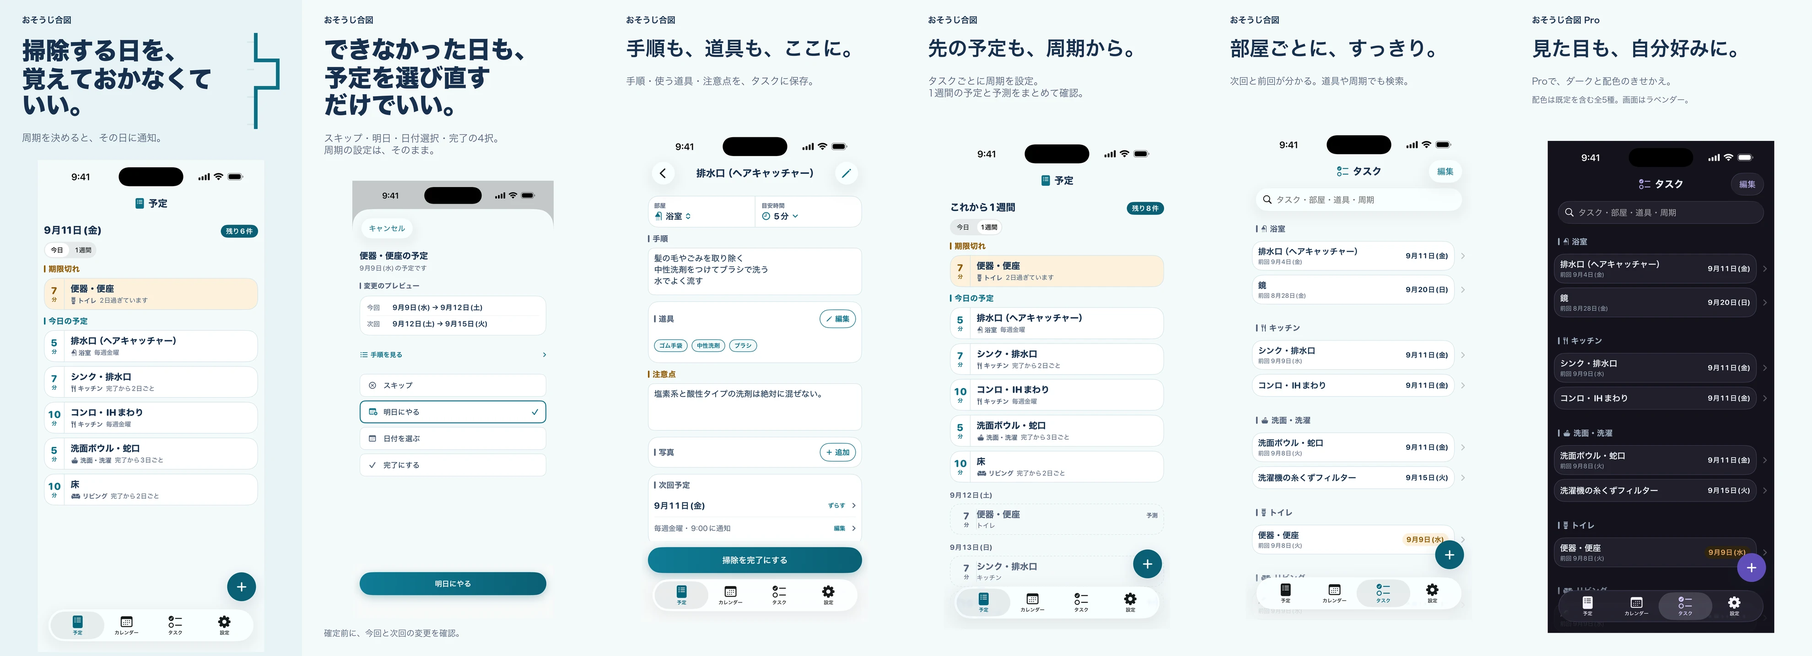
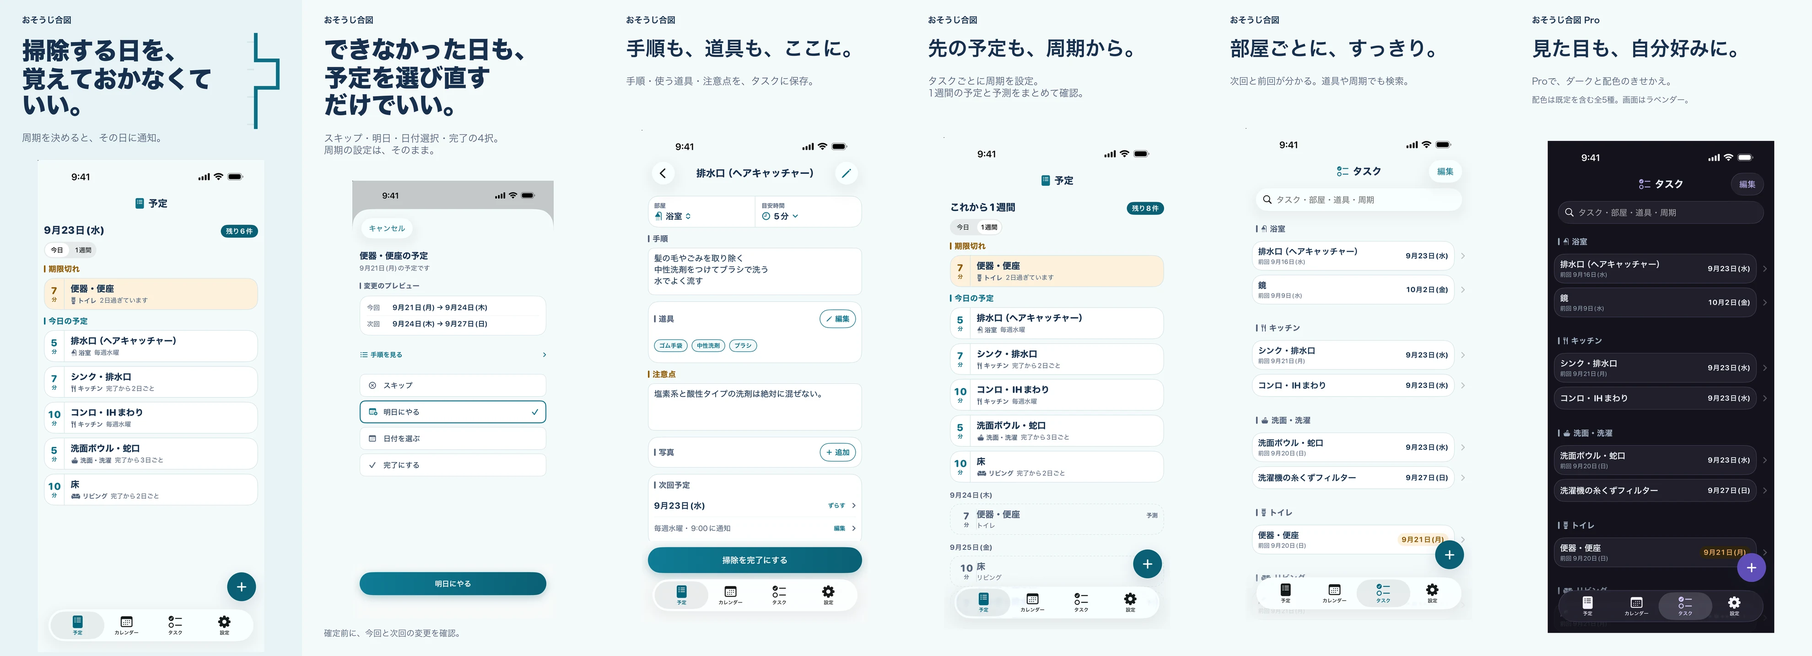
fix(osoujiaizu): LP・サポート・プライバシーを現行アプリに合わせ、画像を差し替える
- 共有の導線を実装どおりに（設定「共有」→「共有を開始」／「招待リンクで参加」。
  「iCloudで同期」トグル・「家族と共有」「招待から参加」は廃止済み）
- 担当者（1.0.0 で追加）: サポートに FAQ、プライバシーにメンバーの表示名と担当者の識別子、
  担当による通知の絞り込み、同期のためのサイレント通知、JSON に識別子が載ることを追記
- 予定の変更で動くのは「今回と次回」（LP の「今回の1回だけ」を訂正）
- 無料の配色は「みず」、復元ボタンは「過去の購入を復元」
- 計測イベントの例に配色の変更・共有の開始/参加/終了・起動などの基本イベントを追記
- 同期のラグ（数秒〜数十秒）の FAQ を追加
- LP の画像帯を 2026-09-23 素材の訴求画像に差し替え（寸法・並びは従来どおり）

Claude-Session: https://claude.ai/code/session_01LxpXgWtj5zPnfFBaJRsbJC

diff --git a/osoujiaizu/privacy.html b/osoujiaizu/privacy.html
@@ -53,27 +53,27 @@
 <main class="wrap">
   <p class="eyebrow">TempuraApps</p>
   <h1>おそうじ合図 プライバシーポリシー</h1>
-  <p class="updated">最終更新日: 2026年9月2日</p>
+  <p class="updated">最終更新日: 2026年9月29日</p>
   <p class="lang"><a href="index.html">アプリ紹介</a> ・ <a href="support.html">サポート</a> ・ <a href="en/privacy.html">English</a></p>
   <p class="lead">おそうじ合図（以下「本アプリ」）は、TempuraApps（以下「当方」）が提供します。本アプリにおける利用者情報の取り扱いについて、以下のとおり定めます。</p>
 
   <h2>1. 収集する情報</h2>
-  <p>本アプリは、氏名・メールアドレス・電話番号などの個人情報を収集しません。利用者が記録・入力したデータ（タスク・部屋・手順・使う道具・注意点・周期・写真・掃除の記録等）は、すべて利用者の端末内にのみ保存され、当方や第三者のサーバーに送信・保管されることはありません。なお、利用者ご自身が iCloud での同期・家族との共有（第8項・初期設定はオフ）をオンにした場合は、これらのデータが利用者自身の iCloud にも保存されます。ただし、アプリの改善のための利用状況の計測（第6項）と、Pro 機能の購入処理（第7項）に限り、限定的な情報を外部サービスに送信します。これらに氏名や、タスク名・部屋名・道具名・手順・注意点・写真など利用者が記録・入力した内容そのものは一切含まれません。</p>
+  <p>本アプリは、氏名・メールアドレス・電話番号などの個人情報を収集しません。利用者が記録・入力したデータ（タスク・部屋・手順・使う道具・注意点・周期・写真・掃除の記録等）は、すべて利用者の端末内にのみ保存され、当方や第三者のサーバーに送信・保管されることはありません。なお、利用者ご自身が iCloud での共有（第8項・初期設定はオフ）を始めた場合は、これらのデータが iCloud にも保存されます。ただし、アプリの改善のための利用状況の計測（第6項）と、Pro 機能の購入処理（第7項）に限り、限定的な情報を外部サービスに送信します。これらに氏名や、タスク名・部屋名・道具名・手順・注意点・写真など利用者が記録・入力した内容そのものは一切含まれません。</p>
 
   <h2>2. 写真の取り扱い</h2>
-  <p>本アプリで撮影・選択した写真は、利用者の端末内に保存されます。当方のサーバーへ送信されることはありません。iCloud での同期・家族との共有（第8項）をオンにしている場合は、写真も同期の対象になり、利用者自身の iCloud に保存されます。第9項の書き出し機能で作成するバックアップファイル（JSON形式）には、写真は含まれません。写真ライブラリへのアクセス許可は、利用者がタスクに写真を付けようとしたときにのみ求めます。許可しない場合でも、写真を使わない機能はすべてご利用いただけます。</p>
+  <p>本アプリで撮影・選択した写真は、利用者の端末内に保存されます。当方のサーバーへ送信されることはありません。iCloud での共有（第8項）を使っている場合は、写真も共有の対象になり、iCloud に保存されます。第9項の書き出し機能で作成するバックアップファイル（JSON形式）には、写真は含まれません。写真ライブラリへのアクセス許可は、利用者がタスクに写真を付けようとしたときにのみ求めます。許可しない場合でも、写真を使わない機能はすべてご利用いただけます。</p>
 
   <h2>3. 位置情報について</h2>
   <p>本アプリは位置情報を使用しません。位置情報へのアクセスを求めることも、取得することもありません。</p>
 
   <h2>4. アカウント・通信</h2>
-  <p>本アプリの利用にアカウント登録は不要です。利用者が記録・入力したデータそのものは、iCloud での同期・家族との共有（第8項）をオンにしない限り端末内で完結し、外部に送信されません。一方で本アプリは、下記の利用状況の計測（第6項）と購入処理（第7項）のために、限られた外部サービスと通信します。</p>
+  <p>本アプリの利用にアカウント登録は不要です。利用者が記録・入力したデータそのものは、iCloud での共有（第8項）を始めない限り端末内で完結し、外部に送信されません。一方で本アプリは、下記の利用状況の計測（第6項）と購入処理（第7項）のために、限られた外部サービスと通信します。</p>
 
   <h2>5. 通知</h2>
-  <p>本アプリの通知は、端末内で完結するローカル通知のみです。予定日の掃除や、予定を見直すための合図をお知らせするために、端末のOSが管理する仕組みを利用します。通知の内容が当方や第三者のサーバーを経由することはありません。通知の許可は、いつでも端末の「設定」から変更できます。</p>
+  <p>本アプリが画面に表示する通知は、端末内で完結するローカル通知のみです。予定日の掃除や、予定を見直すための合図をお知らせするために、端末のOSが管理する仕組みを利用します。通知の内容が当方や第三者のサーバーを経由することはありません。iCloud での共有（第8項）を使っている場合、タスク・予定ごとの担当者に応じて、通知する端末を絞ります（共有しているメンバーを確認できているときは、担当が他のメンバーの予定を自分の端末では通知しません。確認できないときや担当者が共有から抜けたときは絞りません）。これとは別に、ほかの端末の変更を受け取るため、Apple の iCloud から画面に表示されない通知（同期のための通知）を受け取ることがあります。これには利用者が記録・入力した内容は含まれず、当方のサーバーも経由しません。通知の許可は、いつでも端末の「設定」から変更できます。</p>
 
   <h2>6. 利用状況の解析（PostHog）</h2>
-  <p>本アプリは、品質・機能の改善を目的として、匿名の利用状況を解析サービス「PostHog」を用いて計測します。送信するのは、Pro の案内を開いたこと・購入したこと（月額・年額の区分と、成立したかどうか）・購入を復元したことといった課金に関する操作と、予定の作成・完了や予定の変更といった機能をどれだけ使ったかを示す操作の種別・件数などの統計的な情報に限られます。タスク名・部屋名・道具名・手順・注意点・写真など、利用者が記録・入力した内容そのものは、本アプリの仕組み上そもそも送信できない設計になっており、送信されることはありません。氏名・メールアドレスなどの個人情報も送信しません。記録の内容が混ざりうる解析サービス側の機能は、いずれも無効にしています——連打を検知して画面上の文字を送る機能（rage click）と、管理画面から出せるアンケート機能（Survey。自由記述の回答がそのまま送られる）です。</p>
+  <p>本アプリは、品質・機能の改善を目的として、匿名の利用状況を解析サービス「PostHog」を用いて計測します。送信するのは、Pro の案内を開いたこと・購入したこと（月額・年額の区分と、成立したかどうか）・購入を復元したことといった課金に関する操作と、予定の作成・完了や予定の変更、配色の変更、共有の開始・参加・終了といった機能をどれだけ使ったかを示す操作の種別・件数などの統計的な情報と、アプリのインストール・起動・更新といった基本的な利用のイベントに限られます。タスク名・部屋名・道具名・手順・注意点・写真など、利用者が記録・入力した内容そのものは、本アプリの仕組み上そもそも送信できない設計になっており、送信されることはありません。氏名・メールアドレスなどの個人情報も送信しません。記録の内容が混ざりうる解析サービス側の機能は、いずれも無効にしています——連打を検知して画面上の文字を送る機能（rage click）と、管理画面から出せるアンケート機能（Survey。自由記述の回答がそのまま送られる）です。</p>
   <p>あわせて、PostHog が自動的に付与する技術情報（アプリのバージョン、OS の種類・バージョン、端末の種別、アプリの表示言語など）が含まれることがあります。タイムゾーンは、おおよその地域が推測できるため送信前に取り除いています。同じ理由で、解析サービスの機能フラグを起動時に取りにいく通信（要求そのものにタイムゾーンが載ります）も停止しています。IP アドレスは解析側で破棄する設定としており、地域・位置の推定も行わないよう指定しています。市区町村や緯度・経度といった詳しい位置は、いかなる場合も取得しません。</p>
   <p>送信される各記録には、アプリのインストールごとに作られる匿名の識別子が付きます。これは同じインストールからの操作をひとつながりとして見るためのもので、氏名・メールアドレス・アカウント・端末の固有IDとは結び付いておらず、本人の特定には使いません。本アプリを削除して入れ直すと、新しい識別子に変わります。</p>
   <p>当方には、この識別子と利用者ご本人を結び付ける手段がありません。そのため、利用者ごとにデータを取り出したり、個別に削除したりするご依頼にはお応えできません。計測そのものを止めたい場合は、本アプリを削除してください（削除後は送信されません）。データの保管先は EU（欧州）リージョンです。</p>
@@ -82,20 +82,21 @@
   <h2>7. 課金・購入情報（RevenueCat）</h2>
   <p>本アプリの有料機能（おそうじ合図 Pro）の購入・復元は Apple の App Store を通じて行われ、購入・サブスクリプションの有効状態の管理に課金基盤サービス「RevenueCat」を利用します。これにより、購入状態などの情報が RevenueCat で処理されます。クレジットカード番号などのお支払い情報は Apple が取り扱い、当方は受け取りません。購入の管理は匿名の識別子で行い、氏名・メールアドレスなどの個人情報とは結び付けていません。なお、RevenueCat は米国の事業者が提供するサービスです。</p>
 
-  <h2>8. iCloudでの同期・家族との共有</h2>
-  <p>本アプリには、利用者自身の iCloud を使って、同じ Apple ID でサインインした端末のあいだでデータを同期する機能と、招待した家族とデータを共有する機能があります。いずれも Pro 機能で、初期設定はオフです。オンにしない限り、データは第1項のとおり端末内で完結します。オンにすると、タスク（手順・使う道具・注意点・周期・写真を含む）・部屋・予定・掃除の記録が、Apple が運営する iCloud サーバー上の利用者自身の領域（プライベートデータベース）に保存されます。この領域に当方がアクセスすることはできず、当方のサーバーに送信されることもありません。iCloud 上のデータの取り扱いには Apple のプライバシーポリシーが適用されます。通知のオン/オフ・外観・配色の設定は同期されず、端末ごとの設定のままです。</p>
-  <p>家族との共有を開始すると招待リンクが作られ、招待した相手（別の Apple ID の利用者）と上記のデータを共有することになります。<strong>リンクを知っている人は誰でも、このアプリから共有に参加し、上記のデータを閲覧・編集できます。</strong>リンクは、家族など信頼できる相手にだけ送ってください。共有はいつでも停止でき、停止すると招待リンクは無効になります。共有に参加すると、その端末のデータは共有データに置き換わります（参加の前に、控えの書き出しをご案内します）。共有を停止したとき・共有から抜けたとき・共有から外されたときは、各端末にその時点のデータのコピーが残り、以後は独立したデータになります。</p>
-  <p>同期は設定からいつでもオフにできます。オフにしても、Pro の期間が終わっても、端末内と iCloud 上のデータは消えず、同期が止まるだけです（再開すると、そこから同期が追いつきます）。iCloud 上のコピーの削除については第11項をご覧ください。</p>
+  <h2>8. iCloudでの共有</h2>
+  <p>本アプリには、iCloud を使って、同じ Apple ID でサインインしたほかの端末や、招待した相手とデータをそろえる「共有」機能があります。Pro 機能で、初期設定はオフです。始めない限り、データは第1項のとおり端末内で完結します。共有を始めると、タスク（手順・使う道具・注意点・周期・写真・担当者を含む）・部屋・予定（回ごとの担当者を含む）・掃除の記録が、Apple が運営する iCloud サーバー上の、共有を始めた利用者自身の領域に保存されます。この領域に当方がアクセスすることはできず、当方のサーバーに送信されることもありません。iCloud 上のデータの取り扱いには Apple のプライバシーポリシーが適用されます。通知のオン/オフ・外観・配色の設定は共有されず、端末ごとの設定のままです。</p>
+  <p>共有を始めると招待リンクが作られ、招待した相手（別の Apple ID の利用者）と上記のデータを共有することになります。<strong>リンクを知っている人は誰でも、このアプリから共有に参加し、上記のデータを閲覧・編集できます。</strong>リンクは、信頼できる相手にだけ送ってください。共有はいつでも停止でき、停止すると招待リンクは無効になります。共有に参加すると、その端末のデータは共有データに置き換わります（参加の前に、控えの書き出しをご案内します）。共有を停止したとき・共有から抜けたとき・共有から外されたときは、各端末にその時点のデータのコピーが残り、以後は独立したデータになります。</p>
+  <p>共有を始めるとき・参加するときに入力した名前は、メンバーの表示名として共有データに保存され、共有しているメンバー全員に表示されます。名前は設定の「共有」からいつでも変更できます。タスク・予定の担当者は、Apple が発行する iCloud の利用者識別子（氏名やメールアドレスではありません）で記録され、共有しているメンバーの端末で表示名に置き換えて表示されます。</p>
+  <p>共有は設定の「共有」からいつでも停止・脱退できます。停止しても、Pro の期間が終わっても、端末内と iCloud 上のデータは消えず、そろえる処理が止まるだけです。iCloud 上のコピーの削除については第11項をご覧ください。</p>
 
   <h2>9. データのバックアップ</h2>
-  <p>本アプリには、記録データをファイル（JSON形式）として書き出す機能があります（Pro 機能）。書き出したファイルに写真は含まれません。書き出したファイルは利用者自身が選択した保存先に置かれ、利用者の管理下となります。当方はこれにアクセスしません。</p>
+  <p>本アプリには、記録データをファイル（JSON形式）として書き出す機能があります（Pro 機能）。書き出したファイルに写真は含まれません。共有中に書き出した場合は、担当者を表す iCloud の利用者識別子（第8項）も含まれます。書き出したファイルは利用者自身が選択した保存先に置かれ、利用者の管理下となります。当方はこれにアクセスしません。</p>
 
   <h2>10. 第三者への提供</h2>
   <p>当方は、利用者の情報を広告目的で第三者に提供・販売しません。第6項・第7項で述べた計測・購入処理のために外部サービス（PostHog・RevenueCat）へ送信される情報は、各サービスのプライバシーポリシーに基づいて処理されます。</p>
 
   <h2>11. データの削除</h2>
-  <p>端末内に保存されたデータは、アプリ内の削除・リセット機能、または本アプリ自体の削除により消去できます。ただし、設定の「すべてのデータを削除」で消える範囲はアプリ内の確認画面に記載しているとおりで、配色などの設定は残ります。端末内のデータをすべて確実に消去したい場合は、本アプリ自体を削除してください。ただし、iCloud での同期（第8項）をオンにしていた場合、本アプリを削除しただけでは iCloud 上のコピーは残ります。</p>
-  <p>iCloud 上のコピーを削除したいときは、同期をオンにしたまま、アプリ内の「すべてのデータを削除」を実行してください。この操作は、iCloud 上のデータと、同期しているすべての端末（家族と共有中は全メンバーの端末）のデータも消します。なお、家族の共有に参加中は「すべてのデータを削除」は実行できません（先に共有から抜けてください）。</p>
+  <p>端末内に保存されたデータは、アプリ内の削除・リセット機能、または本アプリ自体の削除により消去できます。ただし、設定の「すべてのデータを削除」で消える範囲はアプリ内の確認画面に記載しているとおりで、配色などの設定は残ります。端末内のデータをすべて確実に消去したい場合は、本アプリ自体を削除してください。ただし、iCloud での共有（第8項）を使っていた場合、本アプリを削除しただけでは iCloud 上のコピーは残ります。</p>
+  <p>iCloud 上のコピーを削除したいときは、共有を始めた Apple ID の端末で、共有を使っている状態のまま、アプリ内の「すべてのデータを削除」を実行してください。この操作は、iCloud 上のデータと、共有しているすべての端末（ほかのメンバーの端末を含む）のデータも消します。なお、ほかの人の共有に参加中は「すべてのデータを削除」は実行できません（先に共有から抜けてください）。</p>
 
   <h2>12. お子様のプライバシー</h2>
   <p>本アプリは13歳未満のお子様を対象としたものではなく、お子様から個人情報を意図的に収集することはありません。</p>

diff --git a/osoujiaizu/support.html b/osoujiaizu/support.html
@@ -4,7 +4,7 @@
 <meta charset="UTF-8">
 <meta name="viewport" content="width=device-width, initial-scale=1">
 <title>TempuraApps | おそうじ合図 サポート</title>
-<meta name="description" content="おそうじ合図（iPhone アプリ）のサポートページ。予定を見直す方法、スポットタスク、道具からの検索、無料でできる範囲、おそうじ合図 Pro について、対応環境、お問い合わせ先を掲載しています。">
+<meta name="description" content="おそうじ合図（iPhone アプリ）のサポートページ。予定を見直す方法、共有と担当、スポットタスク、道具からの検索、無料でできる範囲、おそうじ合図 Pro について、対応環境、お問い合わせ先を掲載しています。">
 <meta name="theme-color" content="#ffffff" media="(prefers-color-scheme: light)">
 <meta name="theme-color" content="#0f1216" media="(prefers-color-scheme: dark)">
 <link rel="canonical" href="https://tempuraapps.github.io/osoujiaizu/support.html">
@@ -66,13 +66,13 @@
   <h2>よくあるご質問</h2>
 
   <h3>掃除の予定ができなかったらどうなりますか？</h3>
-  <p>予定通りにできなかったからといって、責められることはありません。予定の日にできなかったときは、「予定を見直す」から「スキップ」「明日にやる」「日付を選ぶ」「完了にする」のいずれかを選べます。変更後の日付は確定する前に確認できます。</p>
+  <p>予定通りにできなかったからといって、責められることはありません。予定の日にできなかったときは、「予定」画面の期限切れのカード（またはタスクの詳細の「ずらす」）から「スキップ」「明日にやる」「日付を選ぶ」「完了にする」のいずれかを選べます。変更後の日付は確定する前に確認できます。</p>
 
   <h3>周期は勝手に変わりますか？</h3>
   <p>変わりません。予定を見直すと、今回の日付と、それに続く次回の日付が動きます（どちらも確定する前にプレビューで確認できます）。ただし周期そのもの（毎週・毎月など）は変わりません。周期が変わるのは、タスクの周期をご自身で編集したときだけです。</p>
 
   <h3>通知は何回来ますか？</h3>
-  <p>1つの掃除予定につき、通知は1回です。予定の日にできなかった場合は、翌日の夜に予定を見直すための合図の通知が1回届きます。</p>
+  <p>1つの掃除予定につき、通知は1回です。予定の日にできなかった場合は、翌日の夜に予定を見直すための合図の通知が1回届きます。共有中は、ほかの人が担当の予定は、基本的に自分の端末には通知しません（担当が決まっていない予定は全員に届きます）。</p>
 
   <h3>一度完了にしたものを取り消せますか？</h3>
   <p>その日のうちであれば、タスクの詳細を開いて「取り消す」で戻せます。完了は1日1回までなので、続けて押しても同じ日の記録が二重になることはありません。</p>
@@ -84,40 +84,46 @@
   <p>探せます。道具を登録してタスクに付けておくと、タスク一覧の検索欄に道具の名前を入れるだけで、その道具を使うタスクが並びます。周期（「毎週日曜」など）や部屋の名前でも探せます。道具の名前を変えると、その道具を使っているすべてのタスクに反映されます。</p>
 
   <h3>写真はどこに保存されますか？</h3>
-  <p>端末内に保存されます。当方のサーバーへ送信されることはなく、書き出したバックアップファイル（JSON形式）にも含まれません。「iCloudで同期」（Pro機能）をオンにしている場合は、写真も同期の対象になり、ご自身の iCloud に保存されます。</p>
+  <p>端末内に保存されます。当方のサーバーへ送信されることはなく、書き出したバックアップファイル（JSON形式）にも含まれません。「共有」（Pro機能）を使っている場合は、写真も共有の対象になり、iCloud に保存されます。</p>
 
   <h3>無料でどこまで使えますか？</h3>
-  <p>タスク・予定それぞれ15件まで無料でご利用いただけます。掃除の記録数に制限はありません。ダークモード・配色のきせかえ・iCloudでの同期と家族との共有は Pro の機能です。</p>
+  <p>タスク・予定それぞれ15件まで無料でご利用いただけます。掃除の記録数に制限はありません。ダークモード・配色のきせかえ・iCloudでの共有は Pro の機能です。</p>
 
   <h3>複数の iPhone で使えますか？</h3>
-  <p>使えます（Pro機能）。設定の「iCloudで同期」をオンにすると、同じ Apple ID でサインインした iPhone のあいだで、タスク・予定・掃除の記録・写真が同期されます。機種変更の引き継ぎにも使えます。オフにしても、端末内と iCloud 上のデータは消えません。</p>
+  <p>使えます（Pro機能）。設定の「共有」から「共有を開始」を選ぶと、データがご自身の iCloud に保存されます。同じ Apple ID でサインインしたほかの iPhone でも「共有を開始」を選ぶと同じデータが使えるようになり、タスク・予定・掃除の記録・写真がそろいます。機種変更の引き継ぎにも使えます。</p>
 
-  <h3>家族と共有できますか？</h3>
-  <p>できます（Pro機能）。設定の「家族と共有」から「共有を開始」を選び、「招待リンクを送る」で家族にリンクを送ってください。受け取った家族は、設定の「家族と共有」にある「招待から参加」にリンクを貼り付けると参加できます。参加すると、その端末のデータは共有データに置き換わるため、残したいデータがある場合は先に JSON で書き出しておいてください。招待リンクを知っている人は誰でも参加できるので、家族以外には渡さないでください。</p>
+  <h3>ほかの人と共有できますか？</h3>
+  <p>できます（Pro機能）。設定の「共有」から「共有を開始」を選び、「招待リンクを送る」で相手にリンクを送ってください。受け取った人は、設定の「共有」にある「招待リンクで参加」を開いてリンクを貼り付け、確認画面で「参加する」を選ぶと参加できます。確認画面では自分の名前も入れられ、入れた名前は共有しているメンバーに表示されます。参加すると、その端末のデータは共有データに置き換わるため、残したいデータがある場合は先に JSON で書き出しておいてください。招待リンクを知っている人は誰でも参加できるので、共有したい相手以外には渡さないでください。</p>
+
+  <h3>掃除の担当を決められますか？</h3>
+  <p>決められます（共有中のみ）。タスクの詳細の「担当」で、いつもの担当を選べます。次回の予定だけ別の人に替えることもできます。決めていない予定は「相談中」と表示されます。「予定」画面では担当ごとに絞り込めます。ほかの人が担当の予定は、基本的に自分の端末には通知しません（共有のメンバーを確認できないあいだは、すべて通知します）。</p>
+
+  <h3>ほかの端末の変更がすぐに出てきません</h3>
+  <p>iCloud を通して届くため、数秒〜数十秒かかることがあります。しばらくしても届かないときは、アプリを開き直してください。あわせて、両方の端末で Pro が有効になっているかをご確認ください。</p>
 
   <h3>招待リンクを開いてもアプリが開きません</h3>
-  <p>iOS の不具合により、リンクから直接アプリが開かないことがあります。リンクをコピーして、アプリの設定 &gt;「家族と共有」&gt;「招待から参加」に貼り付けてください。これが正式な参加の導線です。</p>
+  <p>iOS の不具合により、リンクから直接アプリが開かないことがあります。リンクをコピーして、アプリの設定 &gt;「共有」&gt;「招待リンクで参加」に貼り付けてください。これが正式な参加の導線です。</p>
 
   <h3>共有をやめたらデータはどうなりますか？</h3>
   <p>消えません。共有を停止したとき・共有から抜けたとき・共有から外されたとき、いずれの場合も各端末にその時点のデータのコピーが残り、以後は独立したデータになります。共有を停止すると、招待リンクは使えなくなります。</p>
 
-  <h3>家族の端末でも Pro が必要ですか？</h3>
-  <p>必要です。iCloudでの同期・家族との共有は Pro の機能で、共有に参加する側の端末でも Pro のご利用が必要です。</p>
+  <h3>参加する人の端末でも Pro が必要ですか？</h3>
+  <p>必要です。iCloudでの共有は Pro の機能で、共有に参加する側の端末でも Pro のご利用が必要です。</p>
 
   <h3>同期されない設定はありますか？</h3>
   <p>あります。通知のオン/オフ・外観・配色は端末ごとの設定で、同期されません。タスク・予定・掃除の記録・写真は同期されます。</p>
 
   <h3>データを別の端末に移せますか？</h3>
-  <p>「iCloudで同期」（Pro機能）をオンにすれば、同じ Apple ID でサインインした端末のあいだで自動的にそろいます。機種変更のときも、新しい端末で同期をオンにするだけです。JSON の書き出し・読み込み（Pro機能）は、控えを取っておく手段としてそのまま使えます。なお、家族と共有中は JSON の読み込みは使えません。</p>
+  <p>「共有」（Pro機能）を使えば、同じ Apple ID でサインインした端末のあいだで自動的にそろいます。機種変更のときも、新しい端末で「共有を開始」を選ぶだけです。JSON の書き出し・読み込み（Pro機能）は、控えを取っておく手段としてそのまま使えます。なお、共有中は JSON の読み込みは使えません。</p>
 
   <h2>おそうじ合図 Pro について</h2>
 
   <h3>Pro で何ができますか？</h3>
   <ul>
     <li><strong>タスクと予定の件数上限がなくなる</strong> — 無料はそれぞれ15件まで</li>
-    <li><strong>iCloudで同期・家族と共有</strong> — 同じ Apple ID の端末間で同期し、招待した家族と同じデータを使える</li>
+    <li><strong>iCloudで共有</strong> — 自分のほかの iPhone や、招待した人と同じデータを使える。担当の割り振りも</li>
     <li><strong>ダークモードが使える</strong> — 自動・ライト・ダーク。無料はライト</li>
-    <li><strong>配色を5種類から選べる</strong> — せっけん・みず・ラベンダー・さくら・すみ。無料はせっけん</li>
+    <li><strong>配色を5種類から選べる</strong> — みず・せっけん・ラベンダー・さくら・すみ。無料はみず</li>
     <li><strong>JSONの書き出し・読み込み</strong> — 機種変更のとき</li>
   </ul>
   <p>日々の掃除に使う機能は、どれも無料でお使いいただけます——タスクの登録・編集・削除、周期の設定、当日の通知と見直しの通知、手順・道具・注意点・写真、予定の再配置、今日と週の表示、カレンダー、掃除の記録と履歴（全期間）、サンプルデータ。Pro にあるのは上に挙げた5つだけです。<strong>掃除の記録そのものに件数の上限はありません。</strong></p>
@@ -126,7 +132,7 @@
   <p>月額 300円、年額 3,000円です（日本での価格。国や地域によって異なり、購入画面にお住まいの地域の価格が表示されます）。無料のお試し期間はありません。お支払いは購入を確定した時点で Apple アカウントに請求され、期間終了の24時間以上前に解約しない限り自動更新されます。更新後の料金は、期間が終わる24時間以内に請求されます。ご利用にあたっては Apple の標準<a href="https://www.apple.com/legal/internet-services/itunes/dev/stdeula/">利用規約（EULA）</a>が適用されます。</p>
 
   <h3>購入したのに Pro が反映されません</h3>
-  <p>アプリ内の「購入を復元する」をお試しください。購入時と同じ Apple アカウントで App Store にサインインしている必要があります。それでも反映されない場合は、お問い合わせ先までご連絡ください。</p>
+  <p>アプリ内の「過去の購入を復元」をお試しください。購入時と同じ Apple アカウントで App Store にサインインしている必要があります。それでも反映されない場合は、お問い合わせ先までご連絡ください。</p>
 
   <h3>サブスクリプションを解約したい</h3>
   <p>解約は App Store 側で行います。<strong>設定 &gt; ご自身の名前 &gt; サブスクリプション</strong> を開き、おそうじ合図 を選んで「サブスクリプションをキャンセル」を選択してください。アプリ内の「購読を管理」からも同じ画面を開けます。</p>
@@ -136,7 +142,7 @@
   <p>同じ <strong>設定 &gt; ご自身の名前 &gt; サブスクリプション</strong> の画面から切り替えられます。おそうじ合図の2つのプランは同じ階層に置いてあるため、<strong>切り替えは次の更新日から反映されます</strong>（その場で切り替わったり、日割りの返金が発生したりすることはありません）。それまでは、いま支払っているプランがそのまま続きます。</p>
 
   <h3>解約すると、記録や設定はどうなりますか</h3>
-  <p>消えません。登録したタスクも、予定も、これまでの掃除の記録も、削除されることはありません。できなくなるのは上の5つです——16件目以降のタスクと予定は新しく足せなくなり、iCloudでの同期・家族との共有は止まり（端末内と iCloud 上のデータはそのまま残り、もう一度 Pro になればそこから再開します）、外観はライト、配色はせっけんの表示に戻り、JSONの書き出し・読み込みが使えなくなります。<strong>選んでいた設定そのものは保存されたまま</strong>なので、もう一度 Pro になれば元の見た目が復活します。</p>
+  <p>消えません。登録したタスクも、予定も、これまでの掃除の記録も、削除されることはありません。できなくなるのは上の5つです——16件目以降のタスクと予定は新しく足せなくなり、iCloudでの共有は止まり（端末内と iCloud 上のデータはそのまま残り、もう一度 Pro になればそこから再開します）、外観はライト、配色はみずの表示に戻り、JSONの書き出し・読み込みが使えなくなります。<strong>選んでいた設定そのものは保存されたまま</strong>なので、もう一度 Pro になれば元の見た目が復活します。</p>
 
   <h3>更新日を確認したい</h3>
   <p>上記の <strong>設定 &gt; ご自身の名前 &gt; サブスクリプション</strong> で、次回の更新日と金額を確認できます。自動更新は、期間が終わる24時間以上前に解約しない限り継続します。</p>

diff --git a/osoujiaizu/en/privacy.html b/osoujiaizu/en/privacy.html
@@ -53,27 +53,27 @@
 <main class="wrap">
   <p class="eyebrow">TempuraApps</p>
   <h1>OsoujiAizu Privacy Policy</h1>
-  <p class="updated">Last updated: September 2, 2026</p>
+  <p class="updated">Last updated: September 29, 2026</p>
   <p class="lang"><a href="index.html">About the app</a> · <a href="support.html">Support</a> · <a href="../privacy.html">日本語</a></p>
   <p class="lead">OsoujiAizu ("the App") is provided by TempuraApps ("we"). This policy explains how the App handles user information.</p>
 
   <h2>1. Information we collect</h2>
-  <p>The App does not collect personal information such as your name, email address, or phone number. Everything you record or enter — your tasks and rooms, their steps, tools, cautions, cycles, photos, and your cleaning records — is stored only on your device and is never transmitted to or held on servers operated by us or by third parties. If you yourself turn on iCloud sync or family sharing (section 8; both are off by default), this data is also stored in your own iCloud. The only exceptions are the usage measurement described in section 6 and the Pro purchase processing described in section 7, each of which sends a limited set of information to external services. Neither includes your name, or the content you record or enter such as task names, room names, tool names, steps, cautions, or photos.</p>
+  <p>The App does not collect personal information such as your name, email address, or phone number. Everything you record or enter — your tasks and rooms, their steps, tools, cautions, cycles, photos, and your cleaning records — is stored only on your device and is never transmitted to or held on servers operated by us or by third parties. If you yourself start iCloud sharing (section 8; off by default), this data is also stored in iCloud. The only exceptions are the usage measurement described in section 6 and the Pro purchase processing described in section 7, each of which sends a limited set of information to external services. Neither includes your name, or the content you record or enter such as task names, room names, tool names, steps, cautions, or photos.</p>
 
   <h2>2. Photos</h2>
-  <p>Photos you take or choose in the App are stored on your device. They are never sent to our servers. If iCloud sync or family sharing (section 8) is on, photos are synced too and stored in your own iCloud. The backup file (JSON format) created by the export feature described in section 9 does not include photos. Photo library access is requested only when you try to attach a photo to a task. Every feature that doesn't involve a photo still works if you decline.</p>
+  <p>Photos you take or choose in the App are stored on your device. They are never sent to our servers. If you use iCloud sharing (section 8), photos are shared too and stored in iCloud. The backup file (JSON format) created by the export feature described in section 9 does not include photos. Photo library access is requested only when you try to attach a photo to a task. Every feature that doesn't involve a photo still works if you decline.</p>
 
   <h2>3. Location data</h2>
   <p>The App does not use location data. It never requests or collects your location.</p>
 
   <h2>4. Accounts and network use</h2>
-  <p>No account registration is required to use the App. Unless you turn on iCloud sync or family sharing (section 8), the data you record or enter stays on your device and is not transmitted externally. The App does, however, communicate with a limited set of external services for the usage measurement described below (section 6) and for purchase processing (section 7).</p>
+  <p>No account registration is required to use the App. Unless you start iCloud sharing (section 8), the data you record or enter stays on your device and is not transmitted externally. The App does, however, communicate with a limited set of external services for the usage measurement described below (section 6) and for purchase processing (section 7).</p>
 
   <h2>5. Notifications</h2>
-  <p>Notifications from the App are local notifications that stay on your device. They use the mechanism your device's OS manages, to let you know when a cleaning task is due or to nudge you to re-plan a task you missed. Notification content never passes through our servers or a third party's. You can change notification permission at any time in your device's Settings.</p>
+  <p>The notifications the App shows you are local notifications that stay on your device. They use the mechanism your device's OS manages, to let you know when a cleaning task is due or to nudge you to re-plan a task you missed. Notification content never passes through our servers or a third party's. If you use iCloud sharing (section 8), the App narrows which devices are notified based on each task's assignee (when the members of the share can be confirmed, a task assigned to another member is not notified on your device; when they can't, or the assignee has left the share, notifications are not narrowed). Separately, to receive changes from other devices, the App may receive invisible notifications from Apple's iCloud (sync notifications). These contain nothing you record or enter, and do not pass through our servers. You can change notification permission at any time in your device's Settings.</p>
 
   <h2>6. Usage analytics (PostHog)</h2>
-  <p>To improve quality and features, the App measures anonymous usage with the analytics service PostHog. What is sent is limited to purchase-related actions — opening the paid plan screen, purchasing a plan (monthly or annual, and whether it went through), restoring a purchase — together with statistical information such as the type and count of feature actions, like creating or completing a routine or re-planning a task. Task names, room names, tool names, steps, cautions, and photos you record or enter can never be sent by design, and we never send personal information such as your name or email address. The analytics features that could pick up the content of your records are all switched off — the one that detects repeated taps and sends the text on screen (rage click), and the survey feature that can be published from the analytics dashboard (free-text answers are sent as written).</p>
+  <p>To improve quality and features, the App measures anonymous usage with the analytics service PostHog. What is sent is limited to purchase-related actions — opening the paid plan screen, purchasing a plan (monthly or annual, and whether it went through), restoring a purchase — together with statistical information such as the type and count of feature actions, like creating or completing a routine, re-planning a task, changing the color theme, or starting, joining, or ending a share, and basic app events such as installing, opening, or updating the App. Task names, room names, tool names, steps, cautions, and photos you record or enter can never be sent by design, and we never send personal information such as your name or email address. The analytics features that could pick up the content of your records are all switched off — the one that detects repeated taps and sends the text on screen (rage click), and the survey feature that can be published from the analytics dashboard (free-text answers are sent as written).</p>
   <p>Records may also carry technical information that PostHog adds automatically: the app version, the kind and version of the operating system, the device type, and the app's display language. The time zone is removed before sending, because it would suggest your approximate region. For the same reason, the request the analytics service makes at launch to fetch feature flags is disabled as well — the request itself carries the time zone. IP addresses are set to be discarded on the analytics side, and region and location estimation are turned off. Detailed location such as your city or coordinates is never collected under any circumstances.</p>
   <p>Each record sent carries an anonymous identifier created for that installation of the App. It exists so that actions from the same installation can be read as one thread. It is not tied to your name, email address, account, or any hardware identifier provided by the device, and we do not use it to identify you. Deleting and reinstalling the App produces a new one.</p>
   <p>We have no way to connect that identifier to you as a person. For that reason we cannot act on requests to retrieve or delete one user's data individually. If you wish to stop the measurement entirely, please delete the App; nothing is sent after it is removed. The data is stored in the EU region.</p>
@@ -82,20 +82,21 @@
   <h2>7. Purchases (RevenueCat)</h2>
   <p>Purchases and restores of the App's paid features (OsoujiAizu Pro) are handled through Apple's App Store, and we use the subscription infrastructure service RevenueCat to manage purchases and entitlement status. Information such as your purchase status is therefore processed by RevenueCat. Payment details such as credit card numbers are handled by Apple and are never received by us. Purchases are managed under an anonymous identifier and are not linked to personal information such as your name or email address. Please note that RevenueCat is a service provided by a company based in the United States.</p>
 
-  <h2>8. iCloud sync and family sharing</h2>
-  <p>The App can sync your data between devices signed in to the same Apple ID, using your own iCloud, and share it with family members you invite. Both are Pro features, and both are off by default. Until you turn them on, your data stays on your device as described in section 1. When enabled, your tasks (including their steps, tools, cautions, cycles, and photos), rooms, schedules, and cleaning records are stored in your own area of Apple's iCloud servers (the private database). We cannot access this area, and nothing is sent to our servers. Apple's privacy policy applies to data stored in iCloud. Notification, appearance, and color theme settings are not synced; they remain per-device.</p>
-  <p>Starting family sharing creates an invite link, and you will be sharing the data above with the people you invite (users with a different Apple ID). <strong>Anyone who has the link can join the share from this app and view and edit the data above.</strong> Share the link only with people you trust, such as your family. You can stop sharing at any time, which also invalidates the invite link. Joining a share replaces the data on that device with the shared data (the App offers to export a backup before you join). When sharing is stopped, when you leave a share, or when you are removed from one, each device keeps a copy of the data as of that moment, and changes independently afterwards.</p>
-  <p>You can turn sync off in Settings at any time. Turning it off — or letting Pro lapse — does not delete the data on your device or in iCloud; sync simply stops, and catches up from there when you turn it back on. For deleting the copy in iCloud, see section 11.</p>
+  <h2>8. iCloud sharing</h2>
+  <p>The App has a Sharing feature that uses iCloud to keep your data in sync with your other devices signed in to the same Apple ID and with people you invite. It is a Pro feature and is off by default. Until you start it, your data stays on your device as described in section 1. Once started, your tasks (including their steps, tools, cautions, cycles, photos, and assignees), rooms, schedules (including per-occurrence assignees), and cleaning records are stored in the iCloud area of the user who started sharing, on servers operated by Apple. We cannot access this area, and nothing is sent to our servers. Apple's privacy policy applies to data stored in iCloud. Notification, appearance, and color theme settings are not shared; they remain per-device.</p>
+  <p>Starting to share creates an invite link, and you will be sharing the data above with the people you invite (users with a different Apple ID). <strong>Anyone who has the link can join the share from this app and view and edit the data above.</strong> Share the link only with people you trust. You can stop sharing at any time, which also invalidates the invite link. Joining a share replaces the data on that device with the shared data (the App offers to export a backup before you join). When sharing is stopped, when you leave a share, or when you are removed from one, each device keeps a copy of the data as of that moment, and changes independently afterwards.</p>
+  <p>The name you enter when you start or join a share is saved in the shared data as your display name and is shown to every member of the share. You can change it at any time under Sharing in Settings. Assignees of tasks and schedules are recorded by opaque iCloud user identifiers issued by Apple (not names or email addresses), which members' devices display as the corresponding display names.</p>
+  <p>You can stop or leave a share at any time under Sharing in Settings. Stopping it — or letting Pro lapse — does not delete the data on your device or in iCloud; keeping things in sync simply stops. For deleting the copy in iCloud, see section 11.</p>
 
   <h2>9. Data backup</h2>
-  <p>The App can export your recorded data as a file (in JSON format), a Pro feature. Exported files do not include photos. An exported file is placed in the location you choose and is under your control. We do not access it.</p>
+  <p>The App can export your recorded data as a file (in JSON format), a Pro feature. Exported files do not include photos. Files exported while sharing also include the iCloud user identifiers that represent assignees (section 8). An exported file is placed in the location you choose and is under your control. We do not access it.</p>
 
   <h2>10. Provision to third parties</h2>
   <p>We do not provide or sell your information to third parties for advertising purposes. Information sent to the external services described in sections 6 and 7 (PostHog and RevenueCat) for measurement and purchase processing is handled under each service's own privacy policy.</p>
 
   <h2>11. Deleting your data</h2>
-  <p>Data stored on your device can be erased using the App's delete and reset features, or by deleting the App itself. What "Delete all data" in Settings covers is listed on the confirmation screen inside the App; settings such as the color theme are kept. To be certain everything stored on the device is erased, delete the App itself. If iCloud sync (section 8) was on, however, deleting the App alone leaves the copy in iCloud.</p>
-  <p>To delete the copy in iCloud, run "Delete all data" in the App while sync is on. This also deletes the data in iCloud and on every synced device (during family sharing, every member's device). While you are in a family share as a participant, "Delete all data" is not available — leave the share first.</p>
+  <p>Data stored on your device can be erased using the App's delete and reset features, or by deleting the App itself. What "Delete all data" in Settings covers is listed on the confirmation screen inside the App; settings such as the color theme are kept. To be certain everything stored on the device is erased, delete the App itself. If you used iCloud sharing (section 8), however, deleting the App alone leaves the copy in iCloud.</p>
+  <p>To delete the copy in iCloud, run "Delete all data" in the App on a device signed in to the Apple ID that started sharing, while sharing is still active. This also deletes the data in iCloud and on every device in the share (including other members' devices). While you are a participant in someone else's share, "Delete all data" is not available — leave the share first.</p>
 
   <h2>12. Children's privacy</h2>
   <p>The App is not directed at children under 13, and we do not knowingly collect personal information from children.</p>

diff --git a/osoujiaizu/en/support.html b/osoujiaizu/en/support.html
@@ -65,13 +65,13 @@
   <h2>Frequently asked questions</h2>
 
   <h3>What happens if I miss a cleaning task?</h3>
-  <p>Missing a scheduled day is never held against you. When you couldn't get to a task, open "Re-plan" and choose to skip it, do it tomorrow, pick a date, or mark it done. You can check the new date before you confirm.</p>
+  <p>Missing a scheduled day is never held against you. When you couldn't get to a task, tap its card under "Carried over" on the Schedule screen (or "Move" on the task's detail screen) and choose to skip it, do it tomorrow, pick a date, or mark it done. You can check the new date before you confirm.</p>
 
   <h3>Does the cycle change on its own?</h3>
   <p>No. Re-planning moves this occurrence and the next one that follows it, and you can preview both dates before you confirm. The repeat schedule itself (weekly, monthly, and so on) stays exactly as it was. It changes only when you edit the task's schedule yourself.</p>
 
   <h3>How many notifications do I get?</h3>
-  <p>One notification per scheduled task. If you couldn't get to it on the day, you get one more notification the following evening, nudging you to re-plan it.</p>
+  <p>One notification per scheduled task. If you couldn't get to it on the day, you get one more notification the following evening, nudging you to re-plan it. While sharing, your devices generally don't notify you about tasks assigned to someone else (unassigned tasks notify everyone).</p>
 
   <h3>Can I undo a task I marked as done?</h3>
   <p>Yes, on the same day. Open the task's detail screen and tap "Undo". A task can only be completed once a day, so tapping repeatedly won't create duplicate records for the same day.</p>
@@ -83,40 +83,46 @@
   <p>Yes. Register your tools and attach them to tasks, then type a tool's name into the search field on the task list to see every task that uses it. You can also search by cycle (such as "every Sunday") or by room name. Renaming a tool updates every task that uses it.</p>
 
   <h3>Where are my photos stored?</h3>
-  <p>On your device. They are never sent to our servers, and they are not included in your exported backup file (JSON format). If "Sync with iCloud" (a Pro feature) is on, photos are synced too and stored in your own iCloud.</p>
+  <p>On your device. They are never sent to our servers, and they are not included in your exported backup file (JSON format). If you use Sharing (a Pro feature), photos are shared too and stored in iCloud.</p>
 
   <h3>How much can I do for free?</h3>
-  <p>You can keep up to 15 tasks and 15 schedules for free. There's no limit on the records you keep. Dark mode, color themes, and iCloud sync and family sharing are Pro features.</p>
+  <p>You can keep up to 15 tasks and 15 schedules for free. There's no limit on the records you keep. Dark mode, color themes, and iCloud sharing are Pro features.</p>
 
   <h3>Can I use the app on more than one iPhone?</h3>
-  <p>Yes (a Pro feature). Turn on "Sync with iCloud" in Settings, and your tasks, schedules, cleaning records, and photos sync between iPhones signed in to the same Apple ID. This also works for moving to a new phone. Turning it off does not delete the data on your device or in iCloud.</p>
+  <p>Yes (a Pro feature). Open "Sharing" in Settings and choose "Start sharing" to store your data in your own iCloud. On another iPhone signed in to the same Apple ID, choose "Start sharing" as well, and the same tasks, schedules, cleaning records, and photos become available there. This also works for moving to a new phone.</p>
 
-  <h3>Can I share with my family?</h3>
-  <p>Yes (a Pro feature). Open "Share with Family" in Settings, choose "Start Sharing", then send the link to your family with "Send Invite Link". The family member who receives it pastes the link into "Join with an Invite" on the same "Share with Family" screen. Joining replaces the data on that device with the shared data, so export a JSON backup first if there is anything you want to keep. Anyone who has the invite link can join, so don't pass it to anyone outside your family.</p>
+  <h3>Can I share with other people?</h3>
+  <p>Yes (a Pro feature). Open "Sharing" in Settings, choose "Start sharing", then send the link with "Send an invite link". The person who receives it opens "Join with an invite link" in the same "Sharing" section, pastes the link, and taps "Join" on the confirmation screen. They can also enter their name there, and it is shown to the other members. Joining replaces the data on that device with the shared data, so export a JSON backup first if there is anything you want to keep. Anyone who has the invite link can join, so only give it to the people you want to share with.</p>
+
+  <h3>Can we decide who cleans what?</h3>
+  <p>Yes, while sharing. In a task's detail screen, pick the "Usual assignee". You can also hand just the next occurrence to someone else. Tasks without an assignee show as "Undecided". The Schedule screen can be filtered by assignee, and your devices generally don't notify you about tasks assigned to someone else (while the members of the share can't be confirmed, everything is notified).</p>
+
+  <h3>Changes from another device don't show up right away</h3>
+  <p>Changes travel through iCloud, so they can take a few seconds to a few dozen seconds to arrive. If they still don't appear after a while, reopen the app, and check that Pro is active on both devices.</p>
 
   <h3>The invite link doesn't open the app</h3>
-  <p>Due to an iOS issue, the link may not open the app directly. Copy the link, then paste it into Settings &gt; "Share with Family" &gt; "Join with an Invite" in the app. This is the official way to join.</p>
+  <p>Due to an iOS issue, the link may not open the app directly. Copy the link, then paste it into Settings &gt; "Sharing" &gt; "Join with an invite link" in the app. This is the official way to join.</p>
 
   <h3>What happens to my data if we stop sharing?</h3>
   <p>Nothing is deleted. Whether sharing is stopped, you leave the share, or you are removed from it, each device keeps a copy of the data as of that moment, and changes independently afterwards. Stopping the share invalidates the invite link.</p>
 
-  <h3>Does my family need Pro too?</h3>
-  <p>Yes. iCloud sync and family sharing are Pro features, and Pro is required on the joining device as well.</p>
+  <h3>Does the person joining need Pro too?</h3>
+  <p>Yes. iCloud sharing is a Pro feature, and Pro is required on the joining device as well.</p>
 
   <h3>Are there settings that don't sync?</h3>
   <p>Yes. Notification on/off, appearance, and color theme are per-device settings and are not synced. Tasks, schedules, cleaning records, and photos are synced.</p>
 
   <h3>Can I move my data to another device?</h3>
-  <p>Turn on "Sync with iCloud" (a Pro feature) and your data stays in step between devices signed in to the same Apple ID. When you change phones, just turn sync on on the new one. JSON export and import (a Pro feature) remains available as a way to keep a backup copy. Note that JSON import isn't available during family sharing.</p>
+  <p>Use Sharing (a Pro feature) and your data stays in sync between devices signed in to the same Apple ID. When you change phones, just choose "Start sharing" on the new one. JSON export and import (a Pro feature) remains available as a way to keep a backup copy. Note that JSON import isn't available while sharing.</p>
 
   <h2>About OsoujiAizu Pro</h2>
 
   <h3>What does Pro unlock?</h3>
   <ul>
     <li><strong>No cap on tasks or schedules</strong> — 15 of each without Pro</li>
-    <li><strong>iCloud sync and family sharing</strong> — sync between devices on the same Apple ID, and use the same data with family you invite</li>
+    <li><strong>iCloud sharing</strong> — use the same data on your other iPhones and with people you invite, with assignees</li>
     <li><strong>Dark mode</strong> — Automatic, Light or Dark. Light without Pro</li>
-    <li><strong>A choice of five color themes</strong> — Sekken, Mizu, Lavender, Sakura and Sumi. Sekken without Pro</li>
+    <li><strong>A choice of five color themes</strong> — Mizu, Sekken, Lavender, Sakura and Sumi. Mizu without Pro</li>
     <li><strong>JSON export and import</strong> — for moving to a new device</li>
   </ul>
   <p>Everything you use for the cleaning itself works without Pro — adding, editing and deleting tasks, setting how often each one comes round, the due and review reminders, steps, tools, cautions and photos, rescheduling, the today and week views, the calendar, your cleaning records and the full history, and the sample data. Pro is the five things above. <strong>There is no limit on the records themselves.</strong></p>
@@ -125,7 +131,7 @@
   <p>US$1.99 per month or US$19.99 per year (prices vary by country or region; the App Store shows your local price). There is no free trial. Payment is charged to your Apple Account at confirmation of purchase, and renews automatically unless you cancel at least 24 hours before the period ends. The renewal charge is taken within 24 hours of the end of the period. Apple's standard <a href="https://www.apple.com/legal/internet-services/itunes/dev/stdeula/">Terms of Use (EULA)</a> apply.</p>
 
   <h3>I purchased Pro but it is not active</h3>
-  <p>Try "Restore purchase" in the app. You need to be signed in to the App Store with the same Apple Account you used to purchase. If it still does not activate, please contact us at the address above.</p>
+  <p>Try "Restore purchases" in the app. You need to be signed in to the App Store with the same Apple Account you used to purchase. If it still does not activate, please contact us at the address above.</p>
 
   <h3>I want to cancel my subscription</h3>
   <p>Cancellation is handled by the App Store. Open <strong>Settings &gt; your name &gt; Subscriptions</strong>, select OsoujiAizu, and choose "Cancel Subscription". "Manage subscription" in the app opens the same screen.</p>
@@ -135,7 +141,7 @@
   <p>You can switch from the same <strong>Settings &gt; your name &gt; Subscriptions</strong> screen. The two OsoujiAizu plans sit at the same level, so <strong>the switch takes effect at your next renewal date</strong> — nothing changes on the spot and no pro-rated refund is issued. Until then, the plan you are paying for continues.</p>
 
   <h3>If I cancel, what happens to my records and settings?</h3>
-  <p>Nothing is deleted. Your tasks, your schedules and every cleaning record stay where they are. What stops working are the five things above — you cannot add a 16th task or schedule, iCloud sync and family sharing stop (the data on your device and in iCloud stays put, and picks up again if you return to Pro), the appearance returns to Light and the color theme to Sekken, and JSON export and import are no longer available. <strong>The settings you chose are still saved</strong>, so going back to Pro brings your look back.</p>
+  <p>Nothing is deleted. Your tasks, your schedules and every cleaning record stay where they are. What stops working are the five things above — you cannot add a 16th task or schedule, iCloud sharing stops (the data on your device and in iCloud stays put, and picks up again if you return to Pro), the appearance returns to Light and the color theme to Mizu, and JSON export and import are no longer available. <strong>The settings you chose are still saved</strong>, so going back to Pro brings your look back.</p>
 
   <h3>I want to check my renewal date</h3>
   <p>Under <strong>Settings &gt; your name &gt; Subscriptions</strong> you can see the next renewal date and amount. Auto-renewal continues unless you cancel at least 24 hours before the period ends.</p>

diff --git a/osoujiaizu/index.html b/osoujiaizu/index.html
@@ -349,7 +349,7 @@
             <svg viewBox="0 0 24 24" fill="none" stroke="currentColor" stroke-width="1.8" stroke-linecap="round" stroke-linejoin="round" focusable="false"><rect x="3.5" y="5" width="17" height="15" rx="2.5"/><path d="M3.5 9.5h17"/><path d="M8 3v4M16 3v4"/><path d="M9.5 15l2.5 2.5 2.5-2.5"/></svg>
           </div>
           <h3>予定が崩れても戻せる</h3>
-          <p>できなかった日は「スキップ」「明日にやる」「日付を選ぶ」「完了にする」から選べます。動くのは今回の1回だけで、<strong>周期そのものは変わりません</strong>。変更後の日付はプレビューしてから確定します。</p>
+          <p>できなかった日は「スキップ」「明日にやる」「日付を選ぶ」「完了にする」から選べます。動くのは今回と次回の日付だけで、<strong>周期そのものは変わりません</strong>。変更後の日付はプレビューしてから確定します。</p>
         </li>
         <li class="card">
           <div class="chip" aria-hidden="true">
@@ -373,7 +373,7 @@
           <p>「予定」は 今日だけか1週間かを切り替えられます。カレンダーでは先の予定と済ませた記録を月ごとに見られます。完了は1日1回までで、押し間違えてもその日のうちなら取り消せます。</p>
         </li>
       </ul>
-      <p class="instruments">無料でタスク・予定それぞれ15件まで。掃除の記録に上限はありません。件数の上限をなくす・ダークモード・配色を選ぶ・記録の書き出し／読み込みは Pro の機能です。</p>
+      <p class="instruments">無料でタスク・予定それぞれ15件まで。掃除の記録に上限はありません。件数の上限をなくす・iCloudでの共有と担当の割り振り・ダークモード・配色を選ぶ・記録の書き出し／読み込みは Pro の機能です。</p>
     </div>
   </section>
 
@@ -381,7 +381,7 @@
     <div class="wrap">
       <div class="privacy-box">
         <h2 id="privacy-h"><span class="nowrap">掃除の記録は、</span><span class="nowrap">あなたの手元に</span></h2>
-        <p>タスク・手順・使う道具・注意点・周期・写真・掃除の記録は、端末内に保存されます。アカウント登録やログインは不要で、これらの記録が当方のサーバーへ送られることはありません。「iCloudで同期」（Pro機能）をオンにすると、ご自身のiCloudにも保存され、同じApple IDのiPhoneや、共有した家族のあいだでそろいます。詳細は<a href="./privacy.html">プライバシーポリシー</a>をご覧ください。</p>
+        <p>タスク・手順・使う道具・注意点・周期・写真・掃除の記録は、端末内に保存されます。アカウント登録やログインは不要で、これらの記録が当方のサーバーへ送られることはありません。「共有」（Pro機能）を使うと、iCloudにも保存され、同じApple IDのiPhoneや、招待した人とのあいだでそろいます。詳細は<a href="./privacy.html">プライバシーポリシー</a>をご覧ください。</p>
       </div>
     </div>
   </section>

diff --git a/osoujiaizu/en/index.html b/osoujiaizu/en/index.html
@@ -345,7 +345,7 @@
             <svg viewBox="0 0 24 24" fill="none" stroke="currentColor" stroke-width="1.8" stroke-linecap="round" stroke-linejoin="round" focusable="false"><rect x="3.5" y="5" width="17" height="15" rx="2.5"/><path d="M3.5 9.5h17"/><path d="M8 3v4M16 3v4"/><path d="M9.5 15l2.5 2.5 2.5-2.5"/></svg>
           </div>
           <h3>Miss a day, and you can still get back on track</h3>
-          <p>Couldn't get to it? Skip it, do it tomorrow, pick a date, or mark it done. Only this one occurrence moves — <strong>the cycle itself never changes</strong>. Preview the new date before you confirm.</p>
+          <p>Couldn't get to it? Skip it, do it tomorrow, pick a date, or mark it done. Only this date and the next one move — <strong>the cycle itself never changes</strong>. Preview the new dates before you confirm.</p>
         </li>
         <li class="card">
           <div class="chip" aria-hidden="true">
@@ -369,7 +369,7 @@
           <p>Switch the Schedule screen between today only and the week ahead. The calendar shows upcoming plans and finished records month by month. A task can only be completed once a day, and if you tap it by mistake you can undo it the same day.</p>
         </li>
       </ul>
-      <p class="instruments">Free covers 15 tasks and 15 schedules. There's no limit on the records you keep. Pro removes the caps and adds dark mode, five color themes, and export and import of your records.</p>
+      <p class="instruments">Free covers 15 tasks and 15 schedules. There's no limit on the records you keep. Pro removes the caps and adds iCloud sharing with assignees, dark mode, five color themes, and export and import of your records.</p>
     </div>
   </section>
 
@@ -377,7 +377,7 @@
     <div class="wrap">
       <div class="privacy-box">
         <h2 id="privacy-h">Your cleaning records stay with you</h2>
-        <p>Your tasks, their steps, tools, cautions, cycles, photos, and cleaning records are stored on your device. No account or sign-in is required, and none of this content is ever sent to our servers. If you turn on iCloud Sync (a Pro feature), they are also stored in your own iCloud, so they stay in step across your iPhones and with the family members you share with. See the <a href="./privacy.html">Privacy Policy</a> for details.</p>
+        <p>Your tasks, their steps, tools, cautions, cycles, photos, and cleaning records are stored on your device. No account or sign-in is required, and none of this content is ever sent to our servers. If you use Sharing (a Pro feature), they are also stored in iCloud, so they stay in sync across your iPhones and with the people you invite. See the <a href="./privacy.html">Privacy Policy</a> for details.</p>
       </div>
     </div>
   </section>
